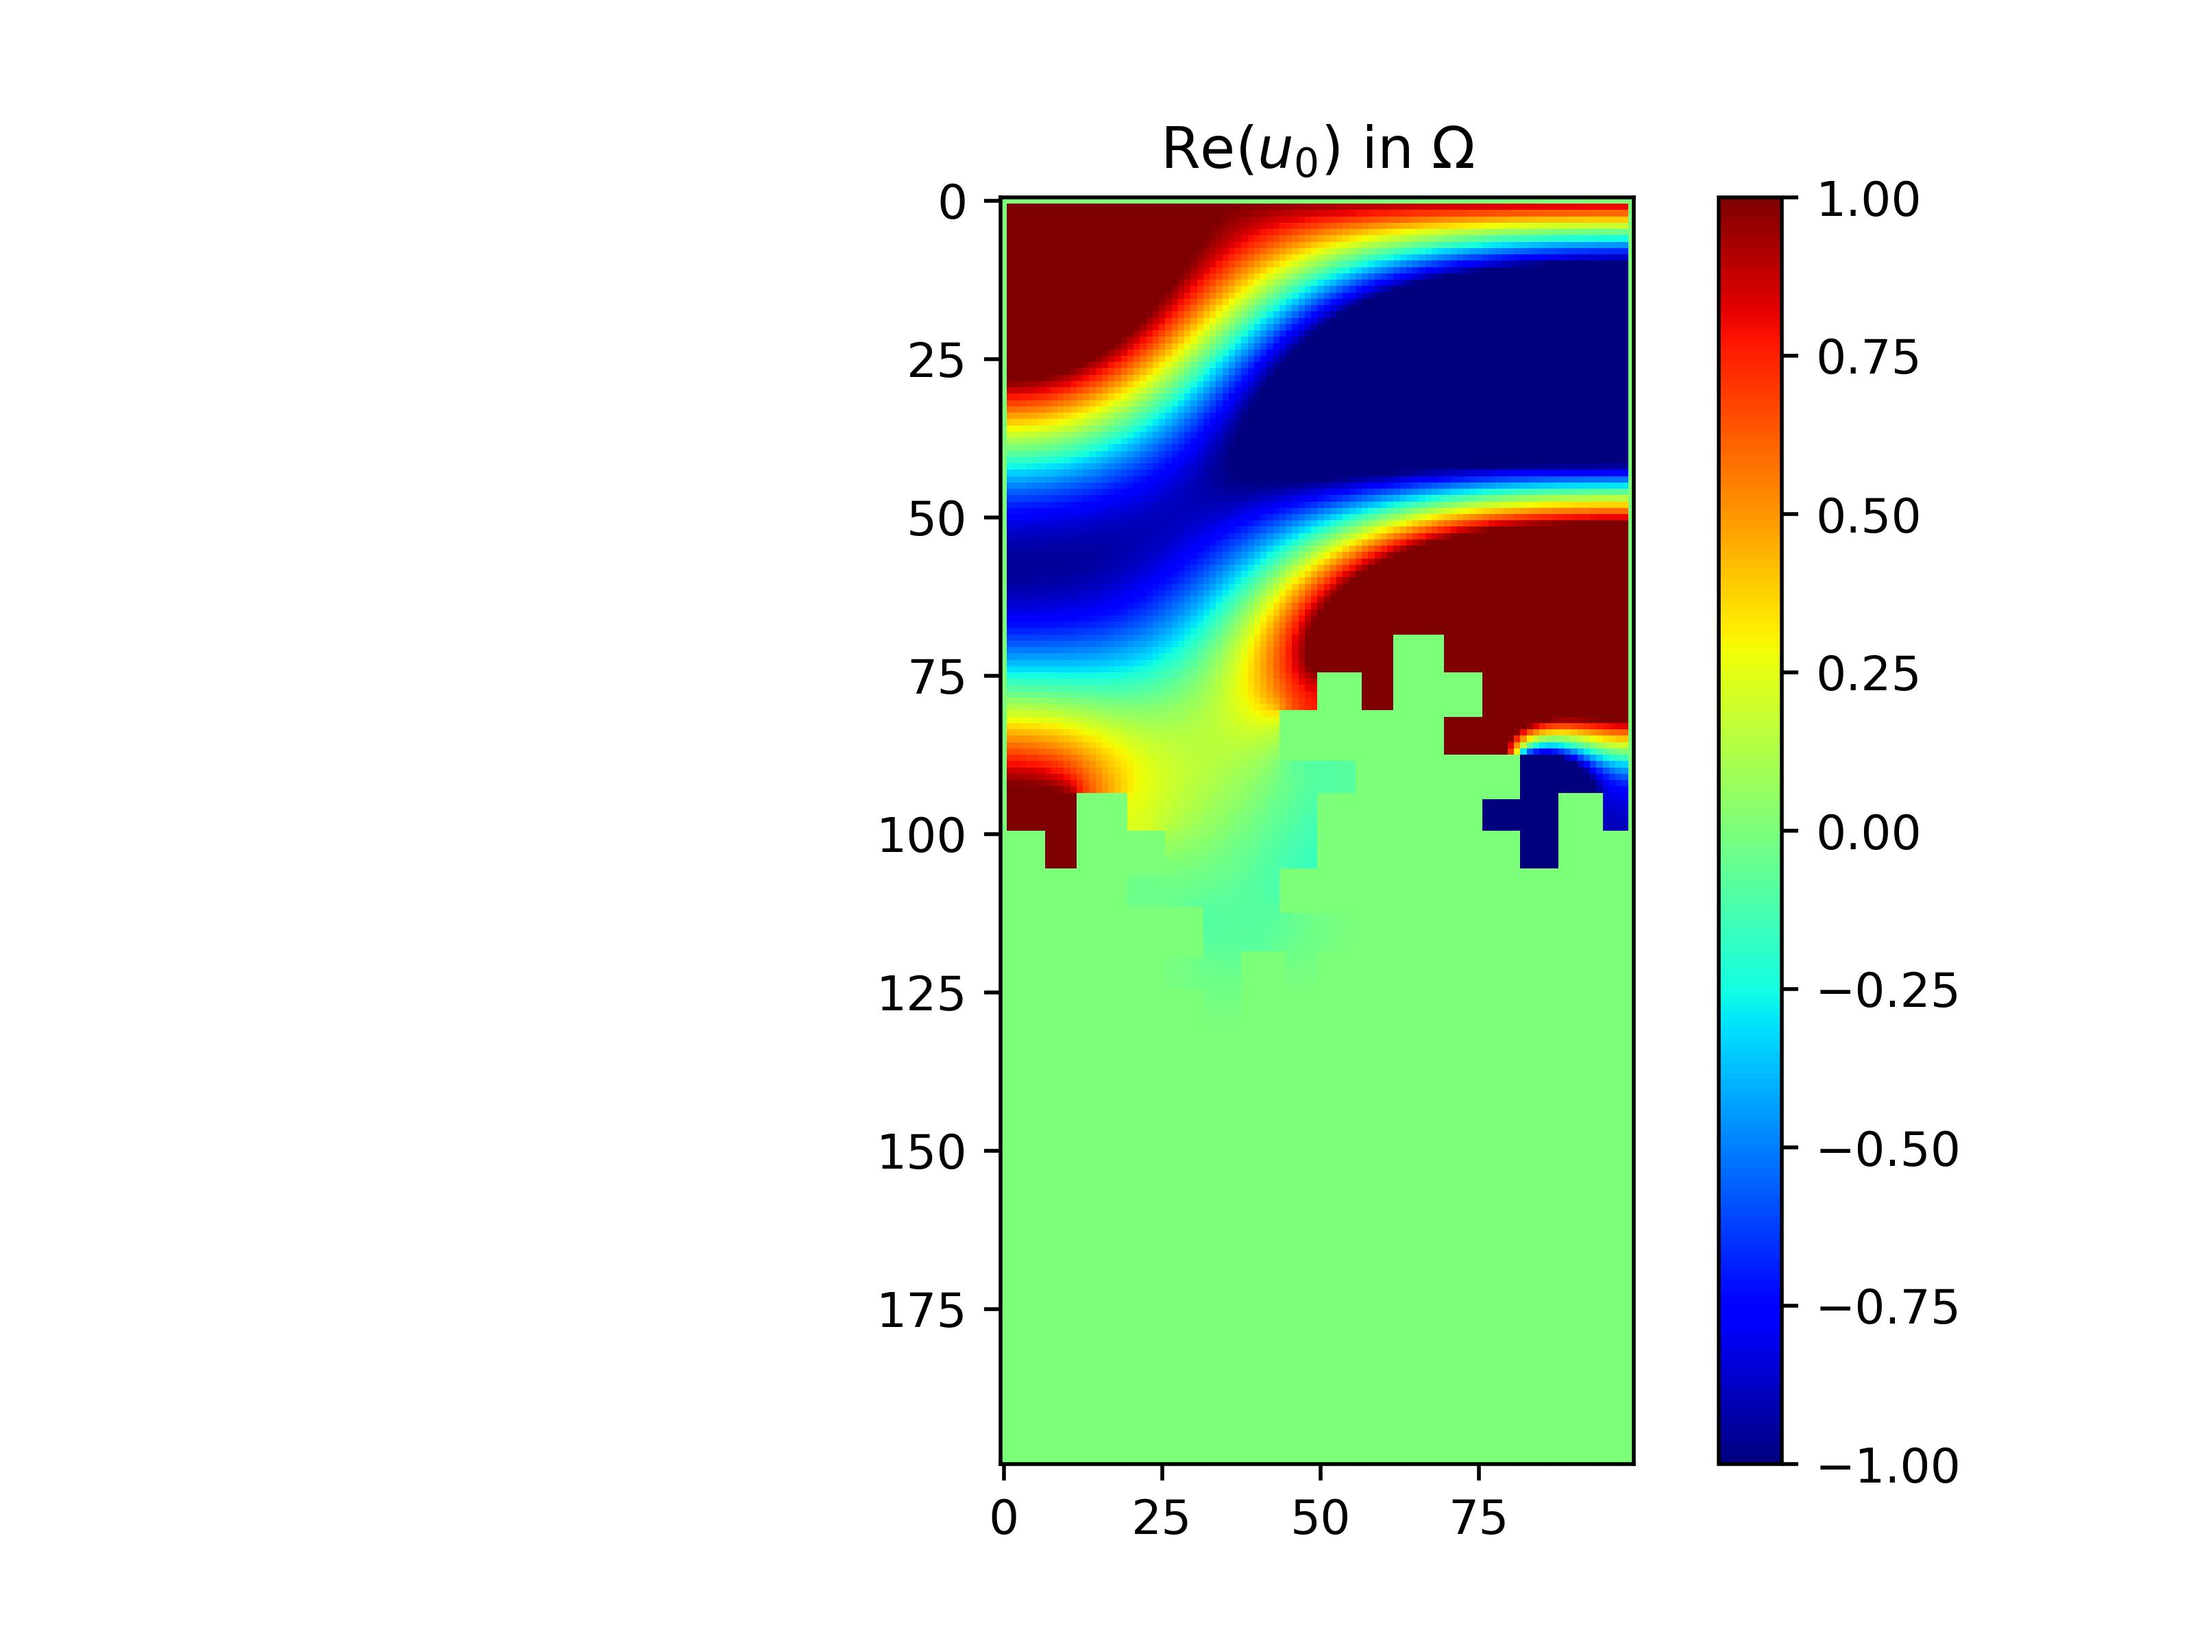
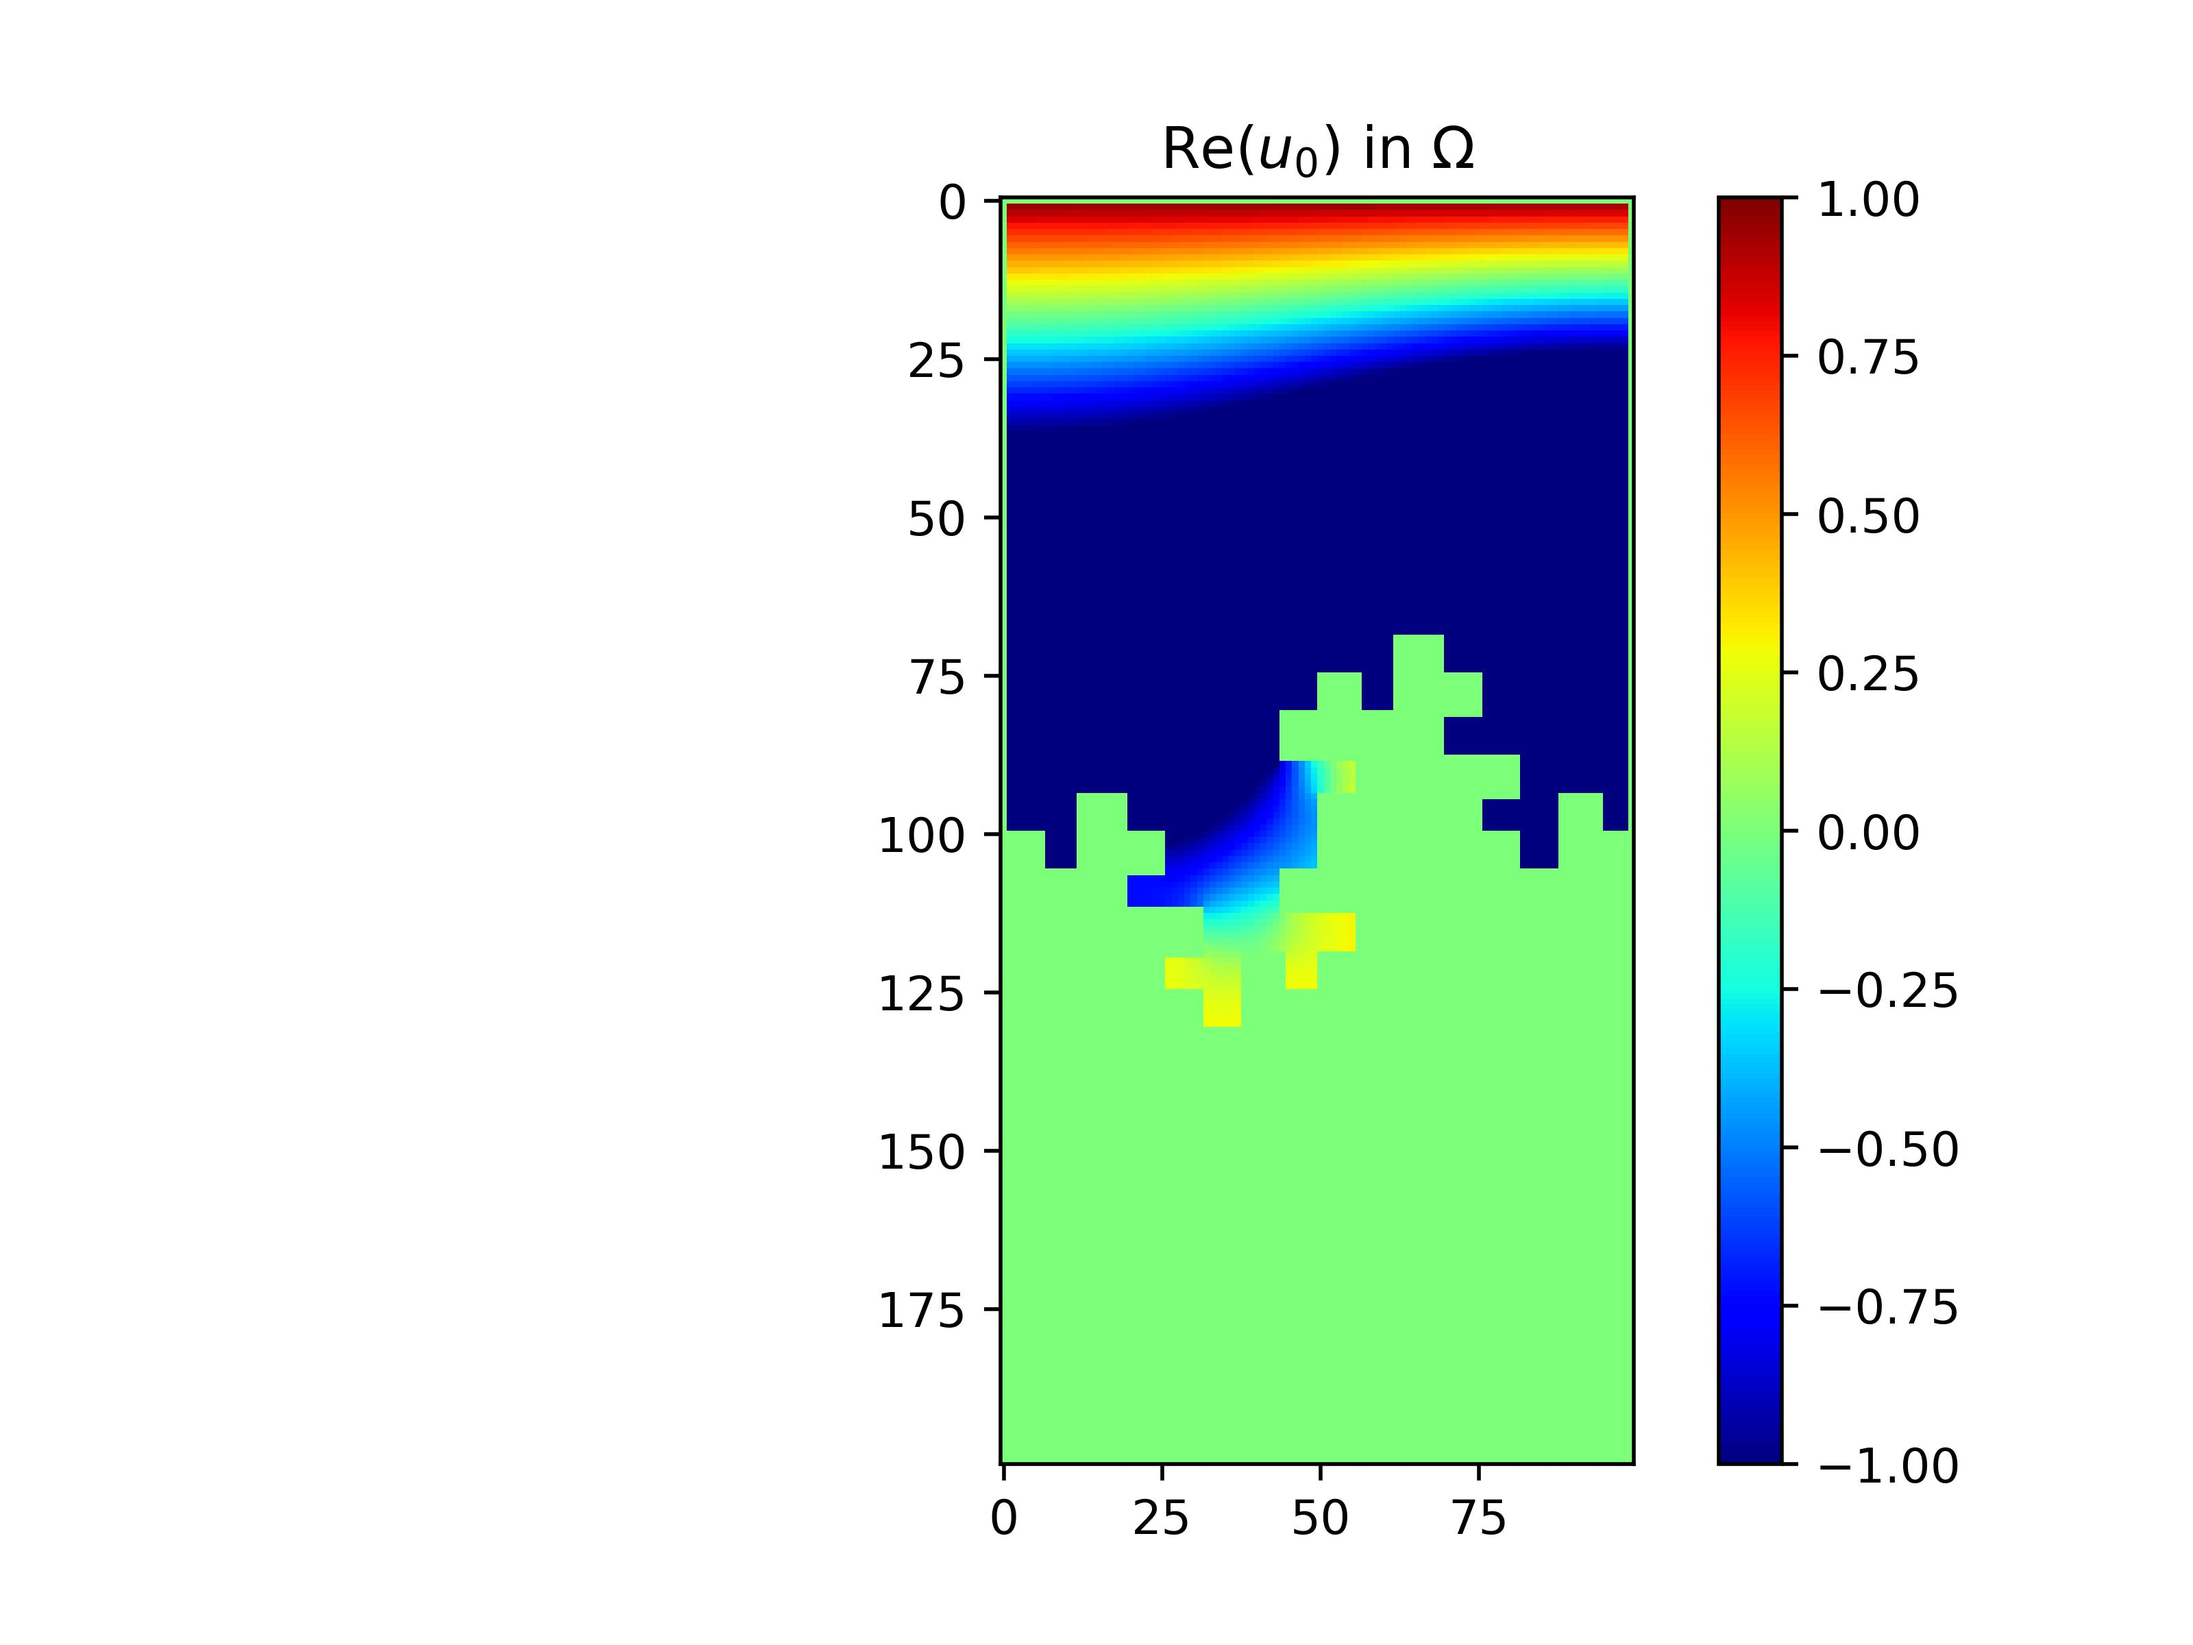
lauching simulations

Changed region(s): [[0.4375, 0.125, 0.75, 0.625]]

diff --git a/src/main.py b/src/main.py
@@ -120,10 +120,10 @@ if __name__ == '__main__':
 
     # -- set parameters of the partial differential equation
 
-    # frequence = 1000
-    # omega = 2*numpy.pi*frequence
-    # # c = 343 # m/s
-    # wavenumber = omega/CELERITY                        # fréquence f = 200 environ donc w = 2*pi*f = 1200 et k = w/c avec c = 340m/s
+    frequence = 1000
+    omega = 2*numpy.pi*frequence
+    # c = 343 # m/s
+    wavenumber = omega/CELERITY                        # fréquence f = 200 environ donc w = 2*pi*f = 1200 et k = w/c avec c = 340m/s
 
     # material = 'Melamine'               # Matériau choisi 
 
@@ -137,9 +137,10 @@ if __name__ == '__main__':
     """
     1) Tracer l'énergie APRES optimisation en fonction de la densité de matériau. 
     """
+
     """
-    V_obj_list = [0.02*i for i in range(1,50)]
-    liste_des_energies = [launch_simulation(N,level,spacestep,wavenumber,Alpha,V_obj, mu)[-1] for V_obj in V_obj_list]
+    V_obj_list = [0.02*i for i in range(1,3)]
+    liste_des_energies = [launch_simulation(N,level,spacestep,wavenumber,V_obj, mu)[-1] for V_obj in V_obj_list]
 
 
     matplotlib.pyplot.figure(figsize=(8, 5))
@@ -155,6 +156,7 @@ if __name__ == '__main__':
     # Afficher le graphique
     matplotlib.pyplot.savefig("energie_min_selon_densité", dpi = 500)
 
+
     """
 
 
@@ -162,13 +164,15 @@ if __name__ == '__main__':
     2) Tracer l'énergie POST optimisation en fonction de la fréquence de l'onde 
     """
 
+    
+
     freq_list = numpy.logspace(2, 3, 20)
     omega_list = freq_list*2*numpy.pi
     wavenumber_list = omega_list/CELERITY
-    liste_energies_post_opti = [launch_simulation(N, level, spacestep, wavenumber, V_obj, mu) for wavenumber in wavenumber_list]
+    liste_energies_post_opti = [launch_simulation(N, level, spacestep, wavenumber, V_obj, mu)[-1] for wavenumber in wavenumber_list]
 
     matplotlib.pyplot.figure(figsize=(8, 5))
-    matplotlib.pyplot.plot(freq_list, liste_energies_post_opti, marker='o', color='b', linestyle='-', linewidth=2, markersize=6)
+    matplotlib.pyplot.plot(freq_list[:len(liste_energies_post_opti)], liste_energies_post_opti, marker='o', color='b', linestyle='-', linewidth=2, markersize=6)
 
     matplotlib.pyplot.xlabel("Fréquence de l'onde planaire en entrée", fontsize=12)
     matplotlib.pyplot.ylabel("Énergie minimale (après opti)", fontsize=12)

diff --git a/src/minimization_algo.py b/src/minimization_algo.py
@@ -168,7 +168,7 @@ def optimization_procedure(domain_omega, spacestep, f, f_dir, f_neu, f_rob,
         k += 1
 
         # Sortie de la boucle si la variation d'énergie est inférieure à un seuil
-        if k > 1 and abs(ene - energy[k-1]) < 5*10**(-4):
+        if k > 1 and abs(ene - energy[k-1]) < 10**(-3):
             print("Fin car X_k+1 trop proche de X_k")
             break
 
